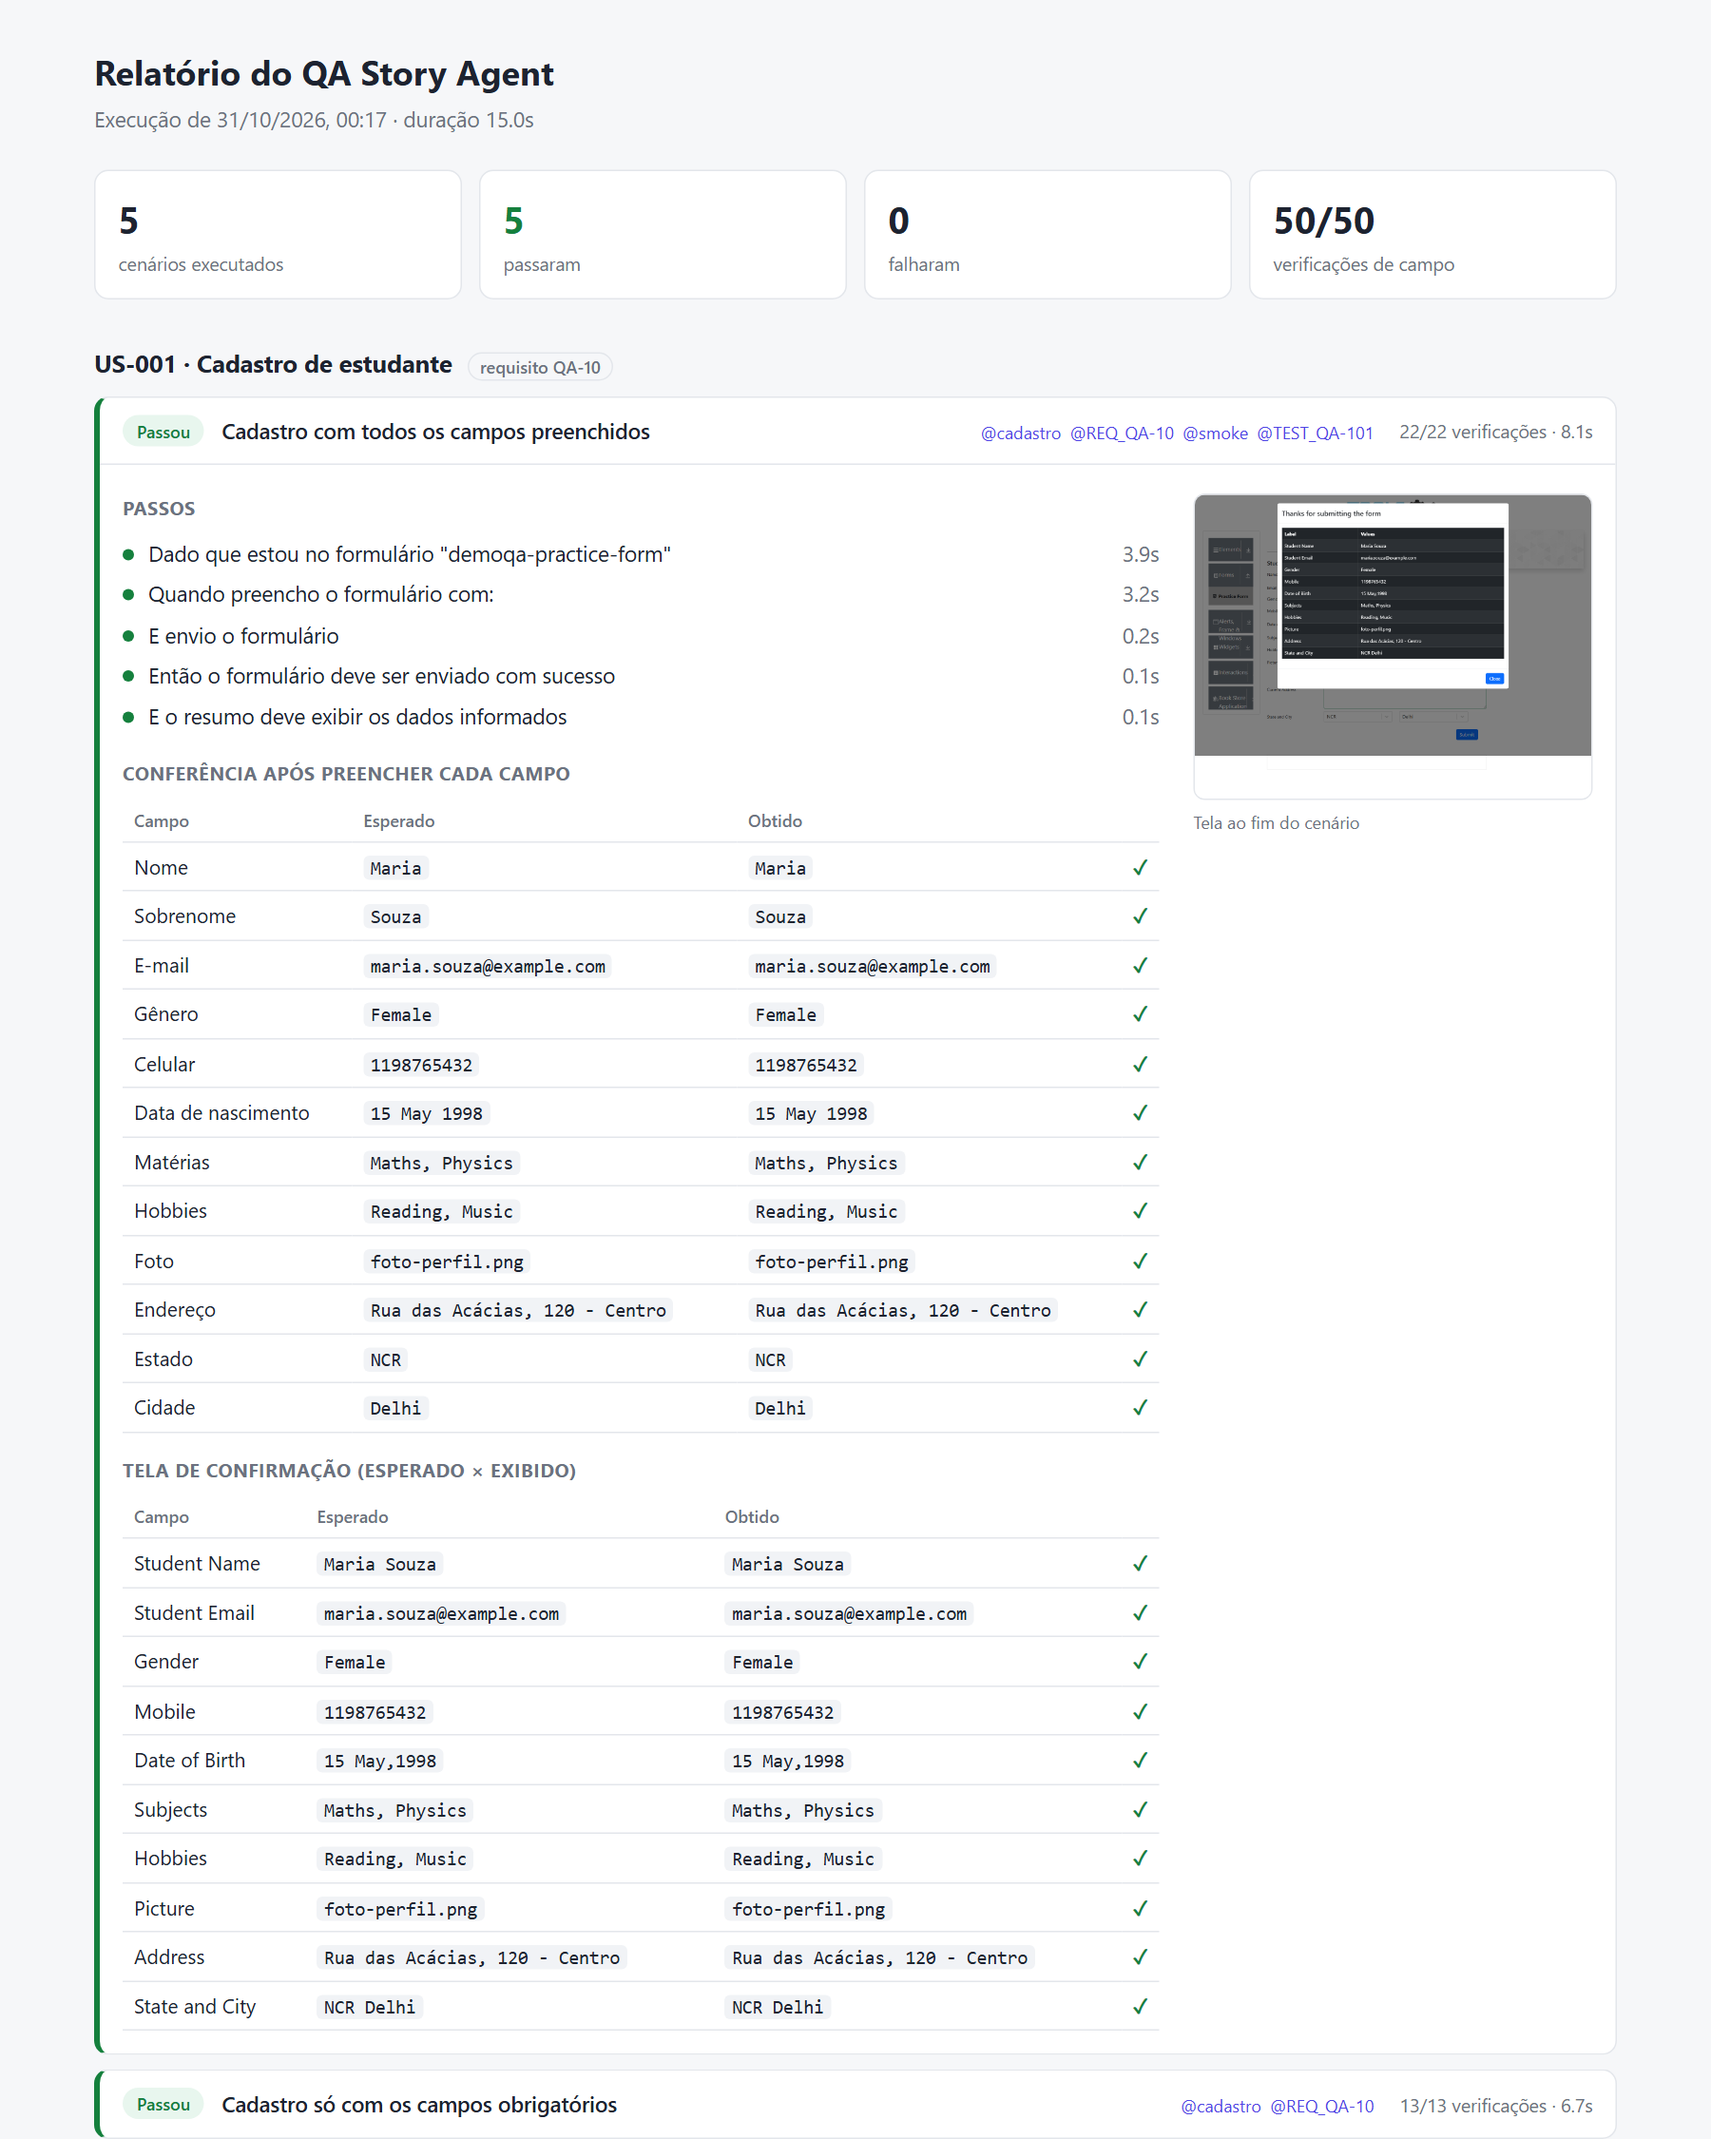
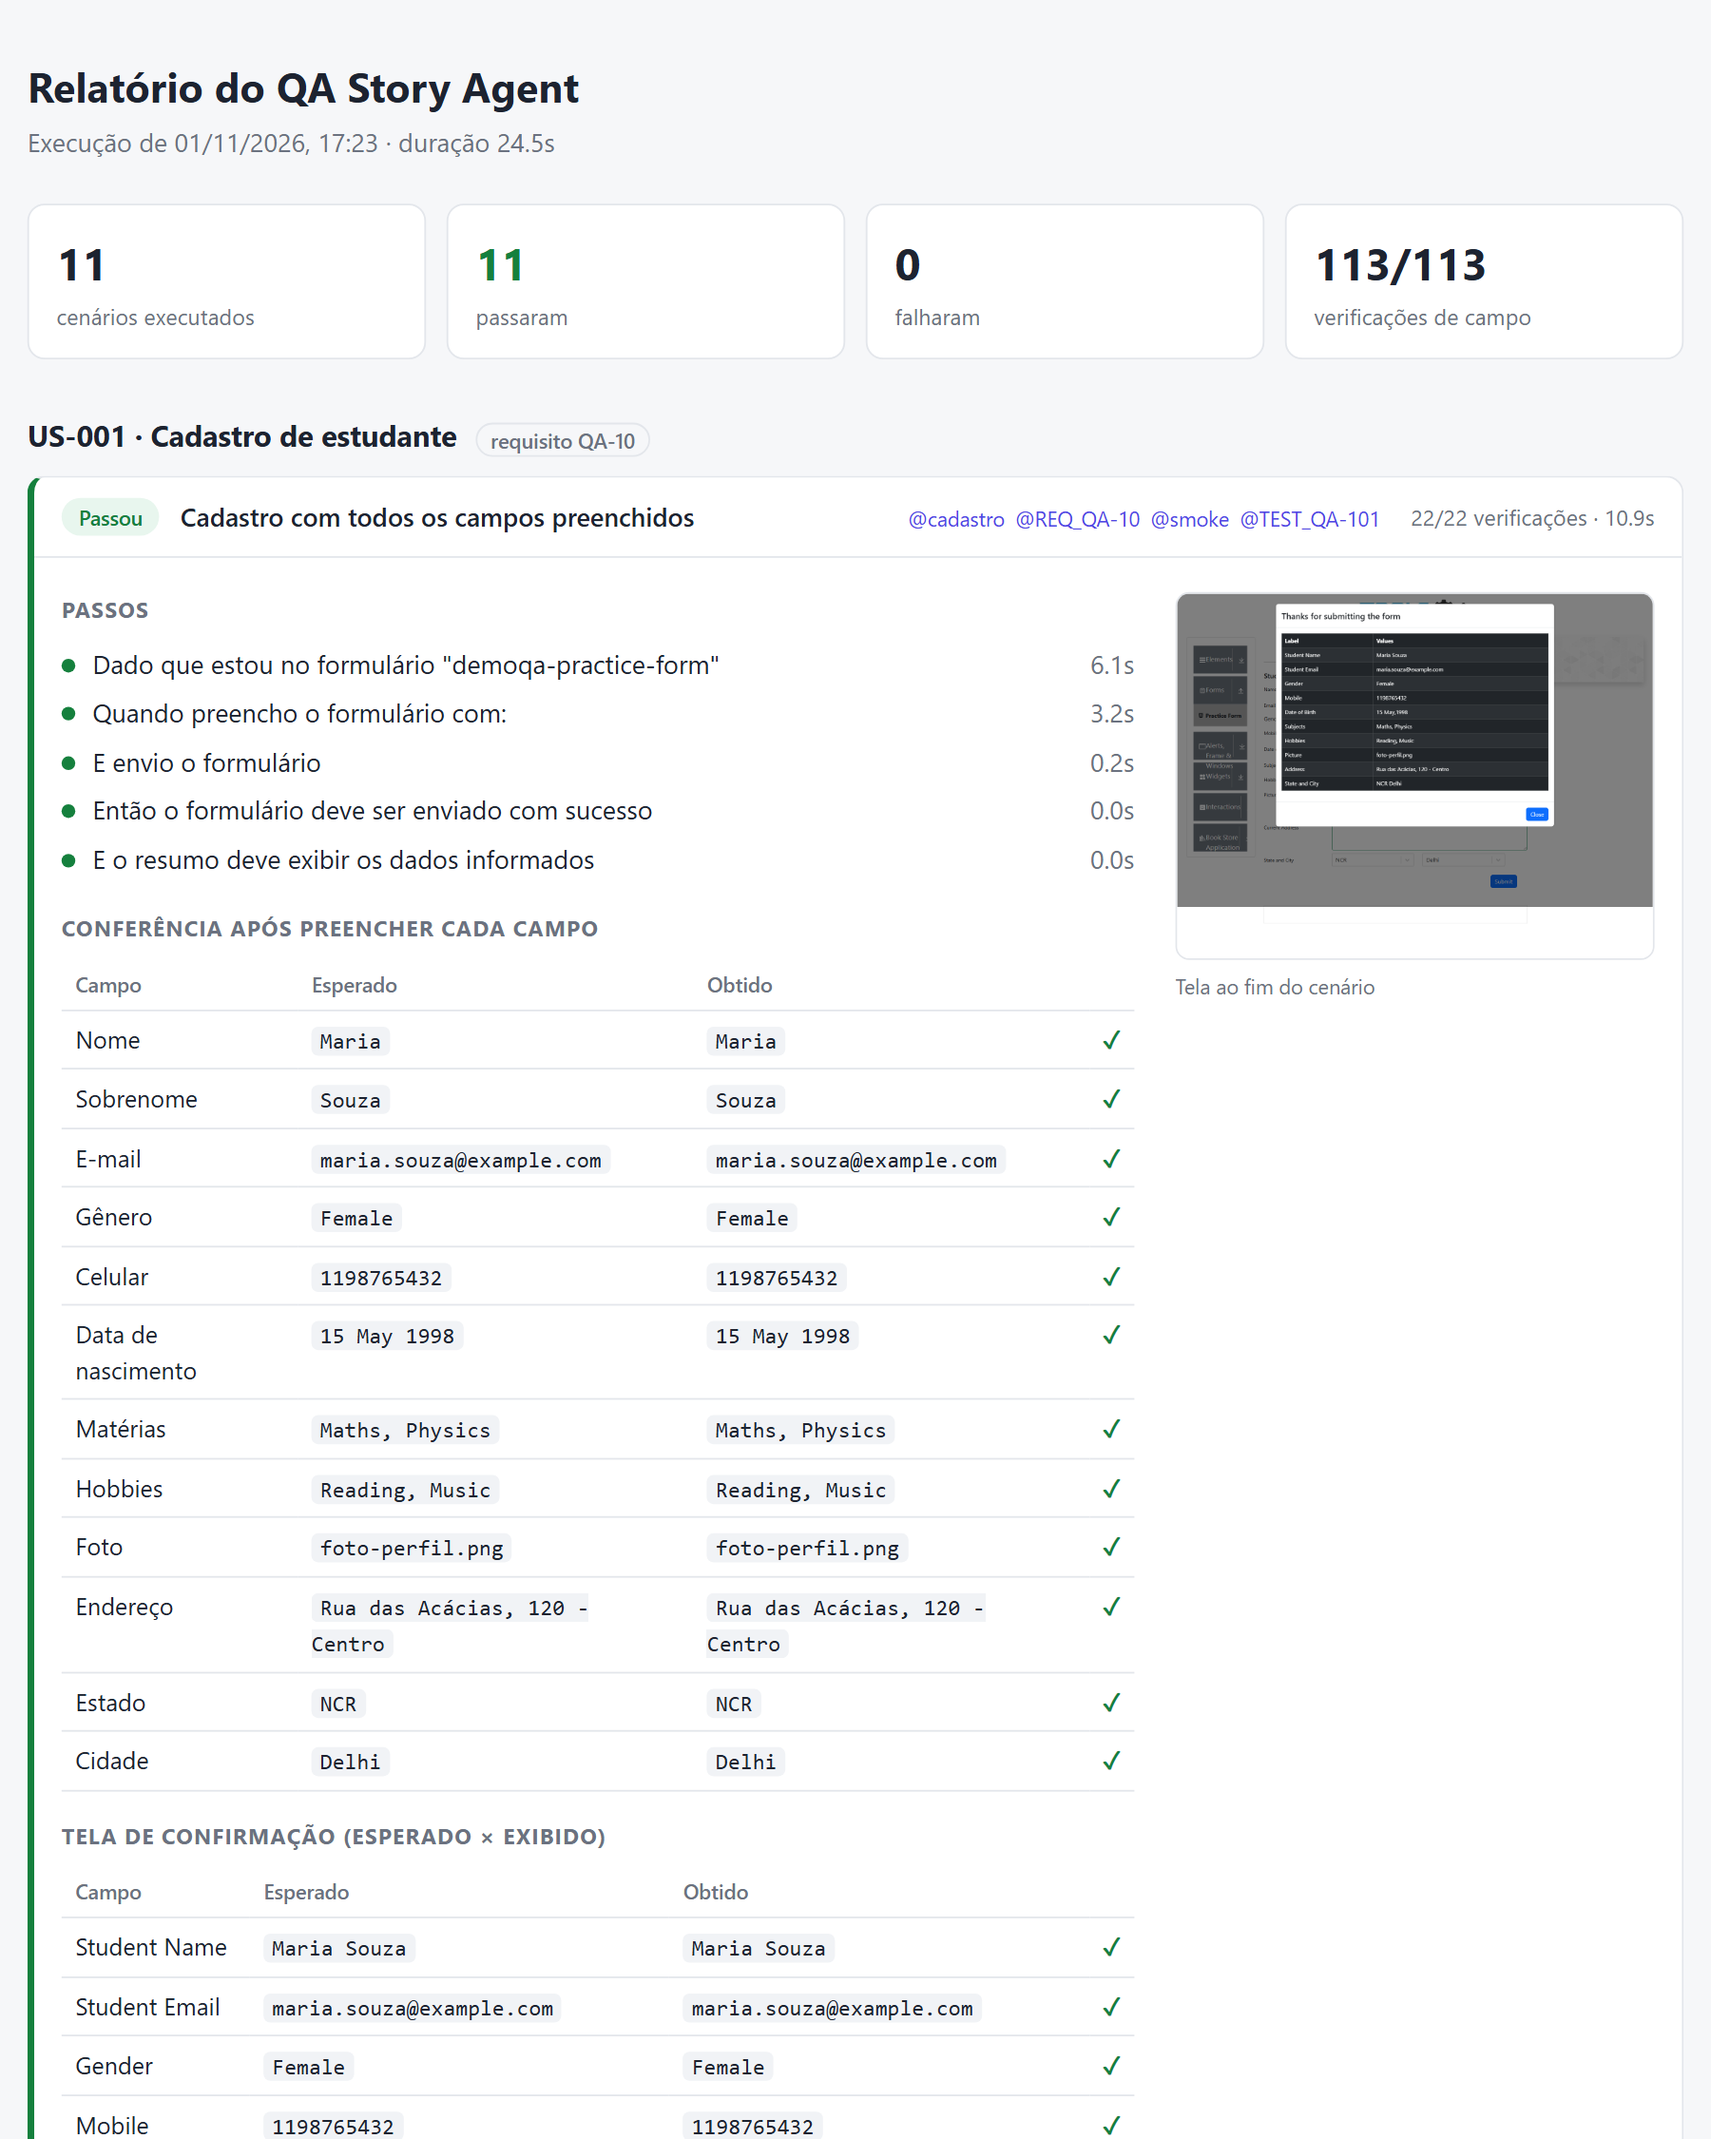
docs: imagem do relatório atualizada e guia para usar num fork
A imagem do README passa a mostrar os 11 cenários atuais. Os dois READMEs
explicam o que ligar num fork: Pages, fluxo da issue, IA e Xray.

diff --git a/README.en.md b/README.en.md
@@ -221,7 +221,16 @@ There are two workflows, split on purpose. DemoQA is a public site that is somet
 
 So a red E2E badge with a green CI points straight at the external site, not at the code.
 
-To enable Pages in a fork, turn on *Settings → Pages → Source: GitHub Actions* and create the repository variable `PUBLISH_REPORT=true`.
+### Using it in a fork
+
+CI and E2E work with no setup. The extras need to be turned on in the repository:
+
+| To | Do |
+| --- | --- |
+| Publish the report to GitHub Pages | *Settings → Pages → Source: GitHub Actions* and the repository variable `PUBLISH_REPORT=true` |
+| Open stories as issues | Create the `historia` label and check *Settings → Actions → General → Allow GitHub Actions to create and approve pull requests* |
+| Free-text stories in the issue flow | The `ANTHROPIC_API_KEY` secret (stories with a table do not need it) |
+| Upload to Xray Cloud | The `XRAY_CLIENT_ID` and `XRAY_CLIENT_SECRET` secrets |
 
 ## Structure
 
